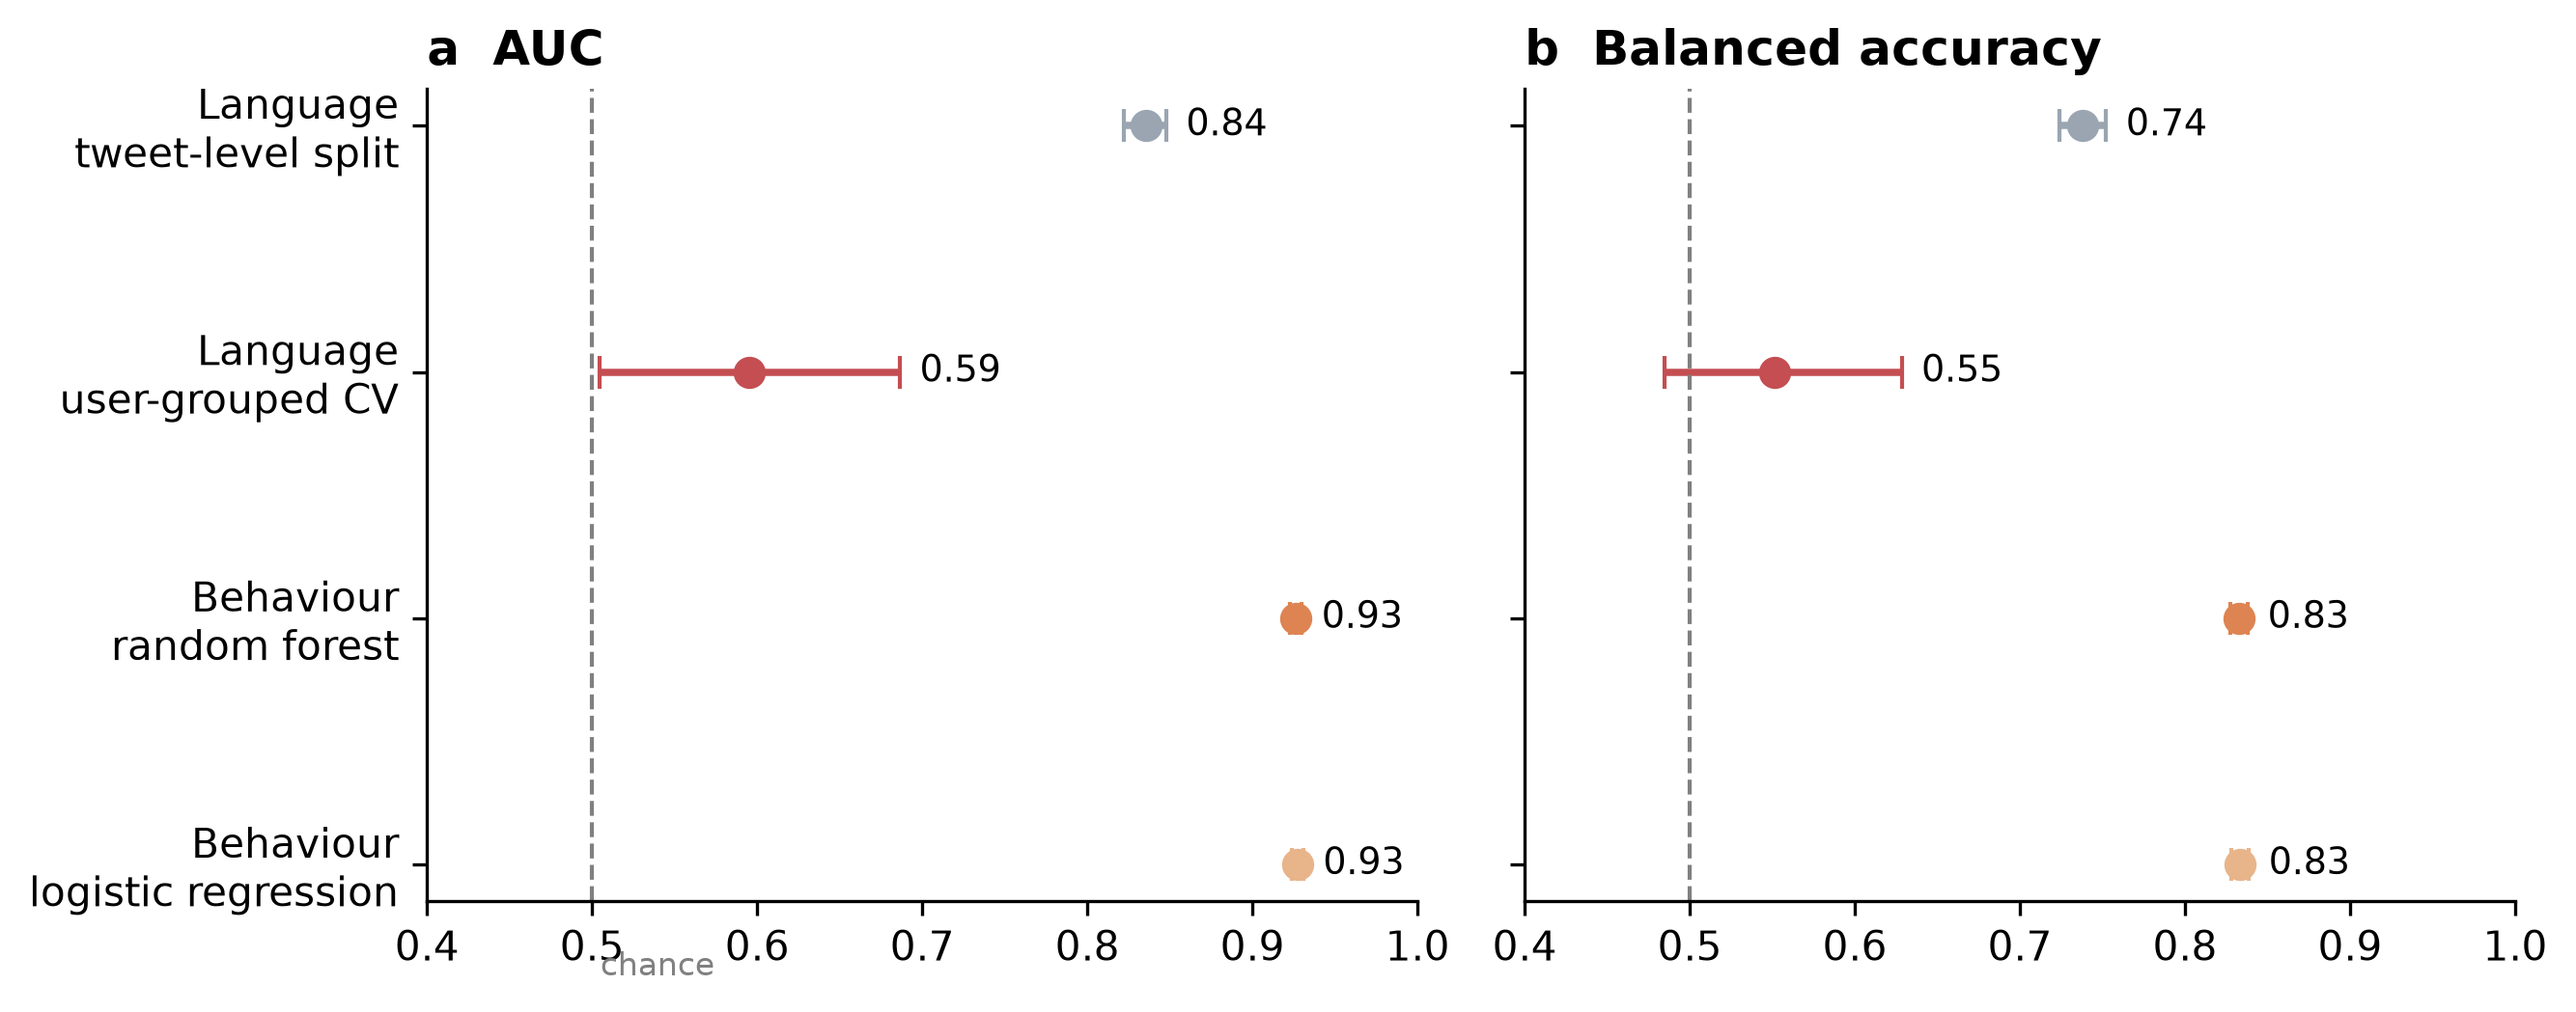
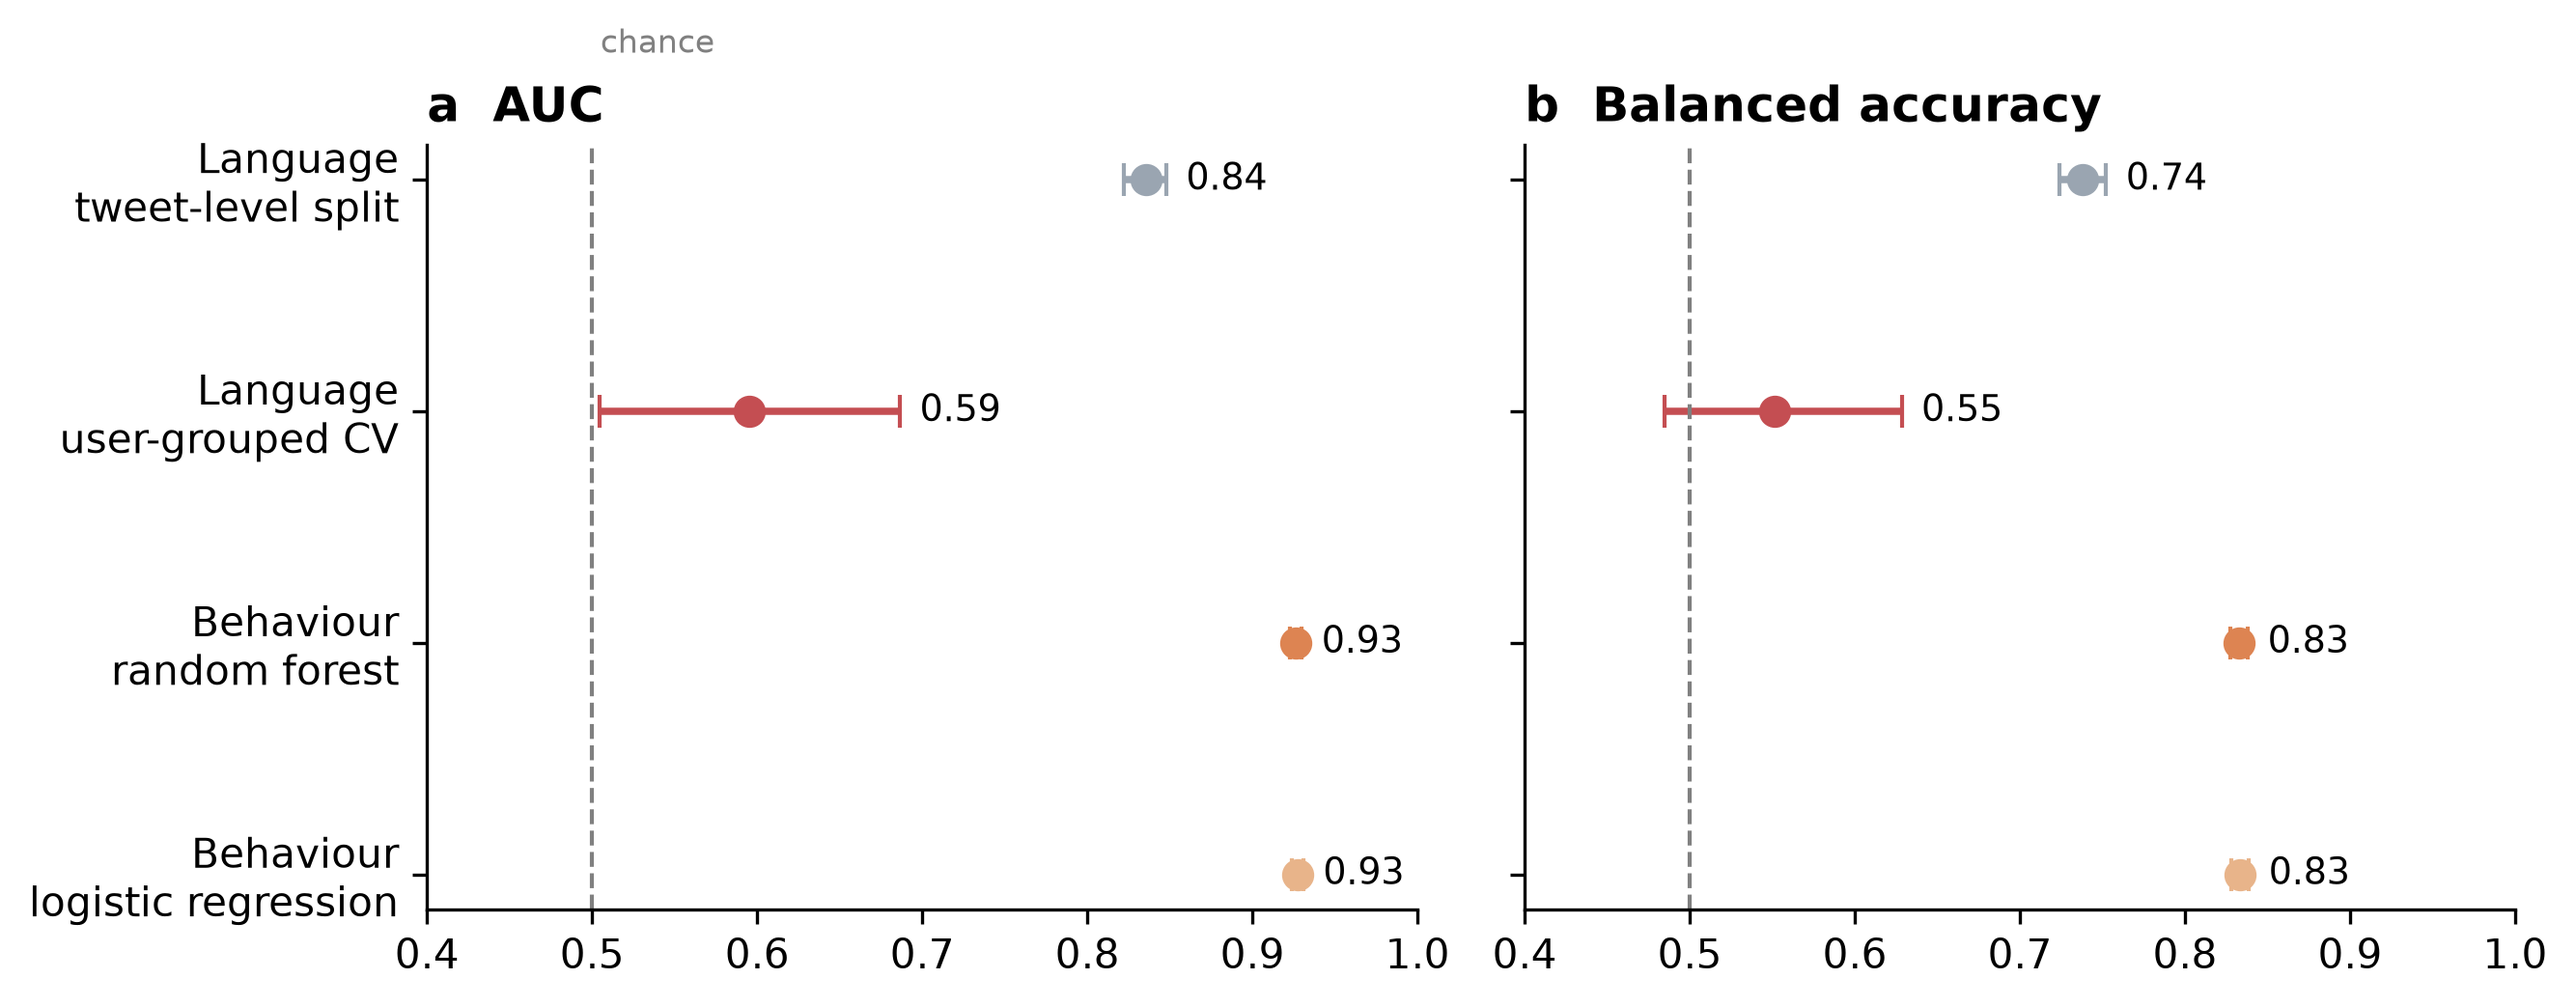
Link the main project repository and update the evaluation figure
- README: add "Relationship to the main project", crediting
  suzanayounas/Mental-Health-Vs-Social-Media as the main project where the
  dual-pathway analysis was conceived, and describing this repository's
  methodological enhancements
- CITATION.cff: reference the main project repository
- make_figures.py / fig3_validation.png: move the "chance" label clear of the
  x-axis tick labels

diff --git a/analysis/make_figures.py b/analysis/make_figures.py
@@ -88,7 +88,7 @@ def main():
         ax.spines[["top", "right"]].set_visible(False)
         ax.set_yticks(range(len(rows)), [r_[0] for r_ in rows])
     axes[0].invert_yaxis()
-    axes[0].text(0.505, 3.45, "chance", color="grey", fontsize=8)
+    axes[0].text(0.505, -0.55, "chance", color="grey", fontsize=8)
     fig.tight_layout()
     fig.savefig(out / "fig3_validation.png", dpi=300, bbox_inches="tight")
     plt.close(fig)

diff --git a/README.md b/README.md
@@ -4,6 +4,21 @@ Analysis code for the manuscript:
 
 > Younas, S. & Anande, T. J. *Digital wellbeing in the social media era: dual pathway analysis of emotional and behavioural distress indicators and public health utility.* (Manuscript under submission, 2026.)
 
+## Relationship to the main project
+
+The main project repository is **[suzanayounas/Mental-Health-Vs-Social-Media](https://github.com/suzanayounas/Mental-Health-Vs-Social-Media)**. There, Suzana Younas conceived and first developed the dual-pathway analysis of emotional (Twitter) and behavioural distress indicators.
+
+This repository contains the **methodological enhancements** by Tertsegha Joseph Anande that produce every result, table and figure reported in the manuscript:
+- user-grouped (leakage-free) validation;
+- VADER sentiment analysis with user-level and mixed-model tests;
+- bootstrap confidence intervals;
+- translation into population-level predictive values;
+- the reproducible figure pipeline.
+
+The two repositories use the same Twitter corpus. The behavioural results reported in the manuscript come from the *Digital Habits vs. Mental Health* dataset, analysed with the code in this repository.
+
+## Overview
+
 The study evaluates two widely reused open datasets within one reproducible framework:
 
 - **Emotional pathway:** 20,000 English tweets from 72 Twitter users, labelled by whether the account belonged to a user identified as depressed. It uses TF-IDF with logistic regression and VADER sentiment, evaluated with a tweet-level split and with nested **user-grouped** cross-validation.
